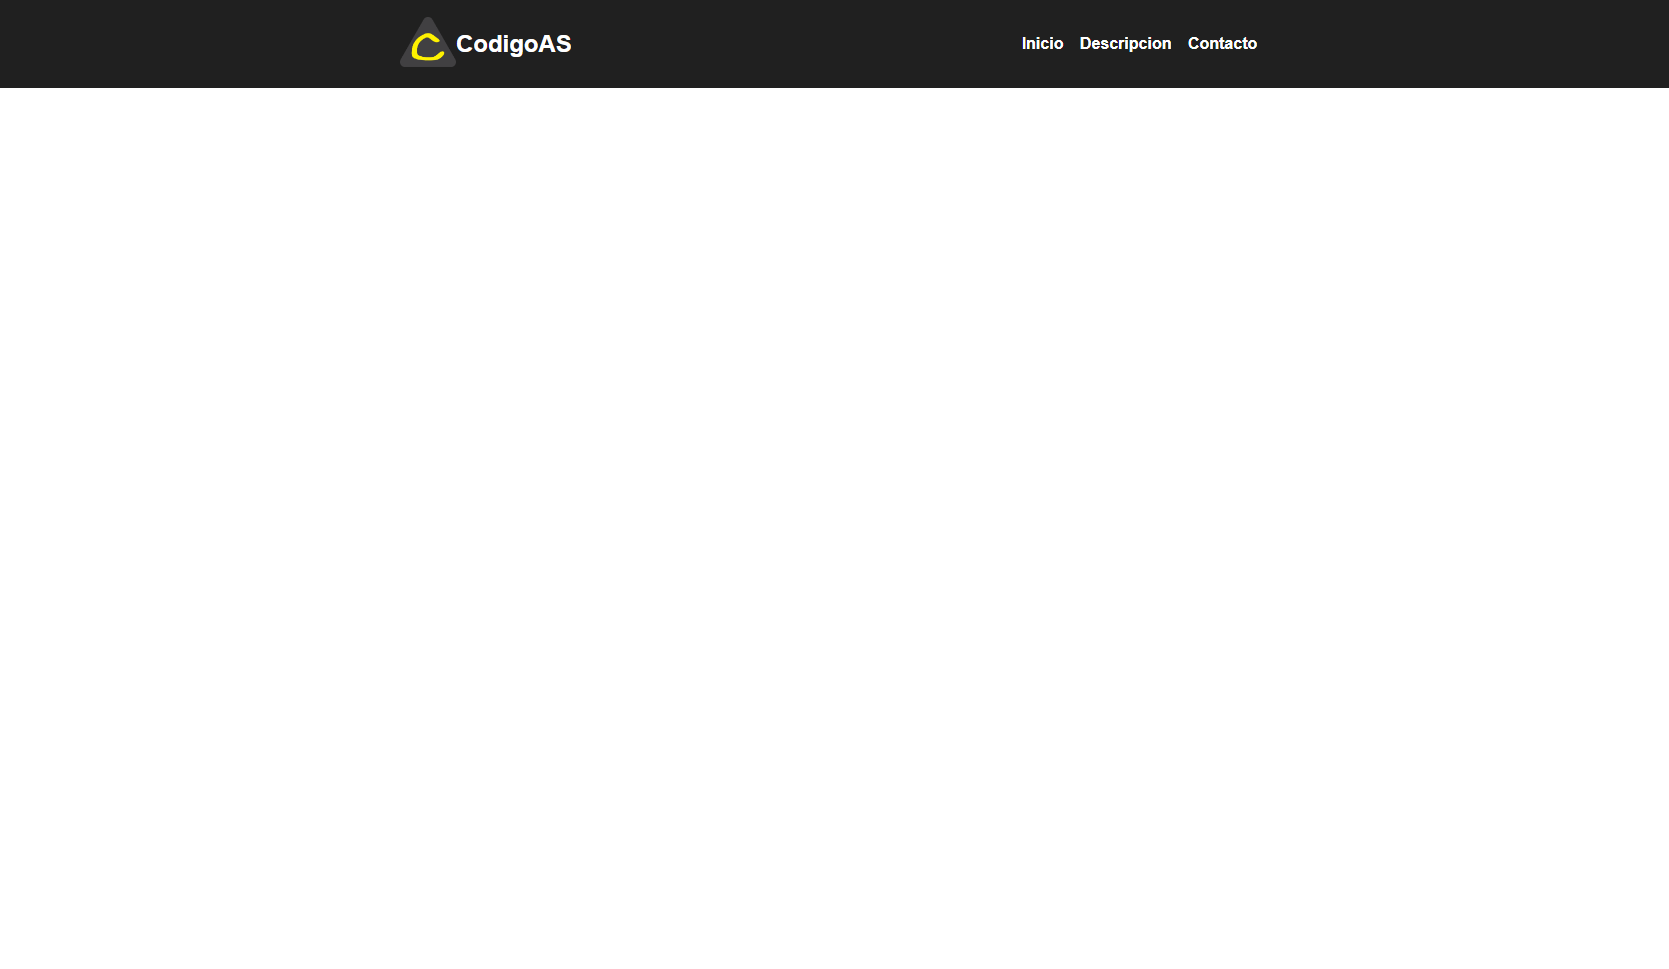
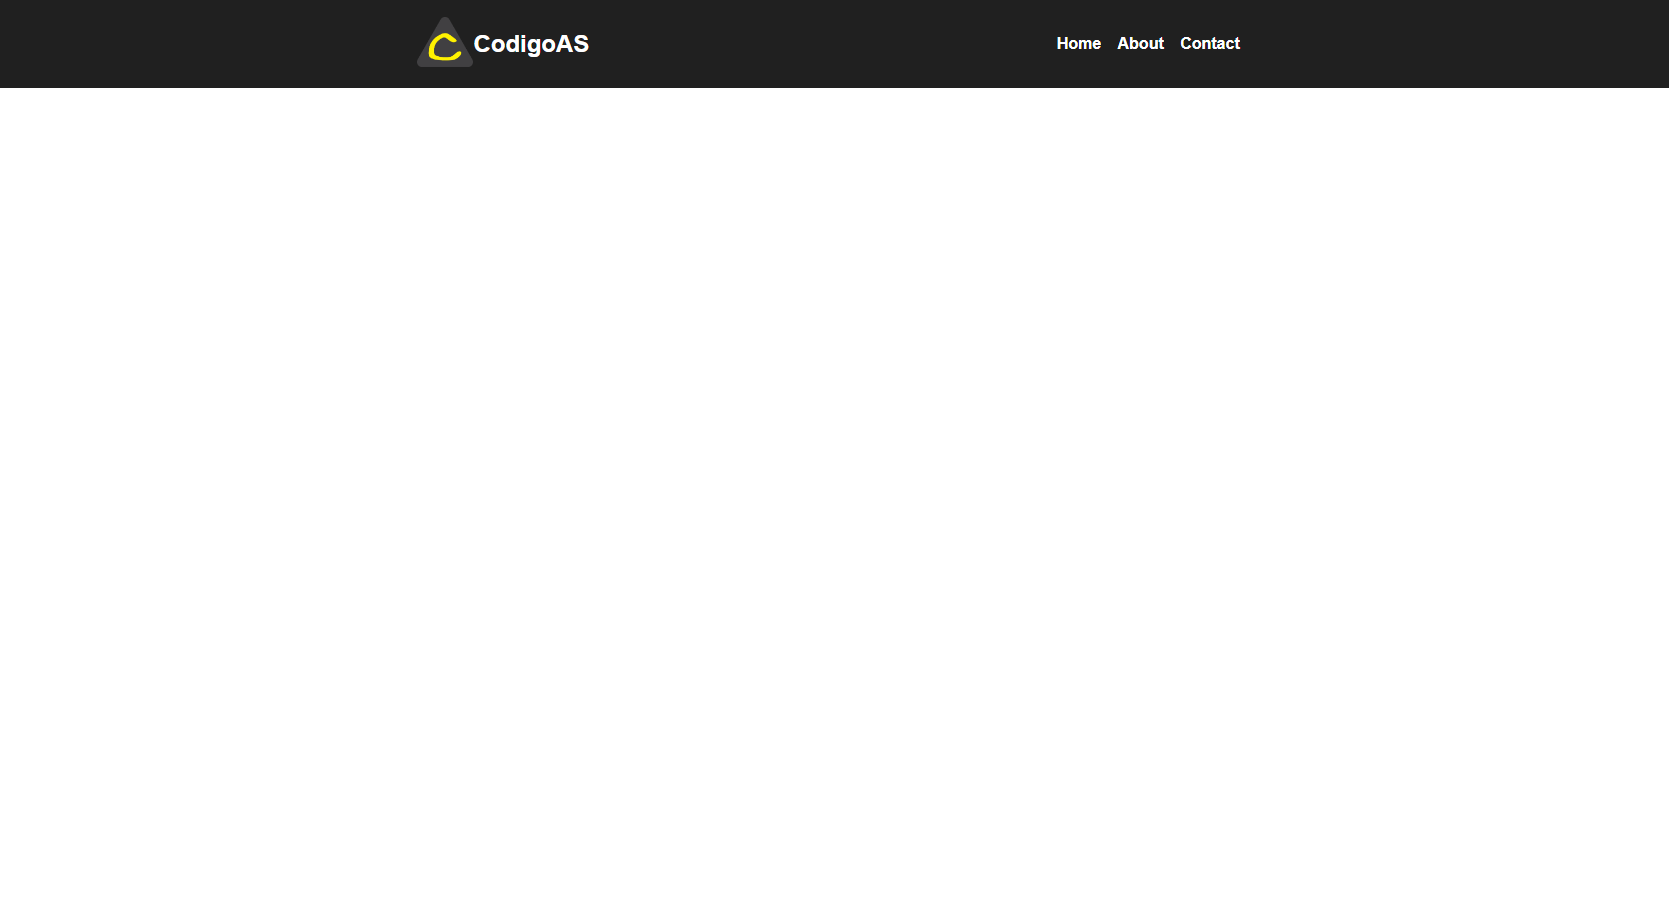
screen english

Changed region(s): [[0.0, 0.0, 1.0, 0.1228], [0.592, 0.0307, 0.7478, 0.0614]]

diff --git a/index.html b/index.html
@@ -5,7 +5,7 @@
     <meta charset="UTF-8">
     <meta http-equiv="X-UA-Compatible" content="IE=edge">
     <meta name="viewport" content="width=device-width, initial-scale=1.0">
-    <title>Menu basico</title>
+    <title>Basic Header</title>
     <link rel="shortcut icon" href="favicon.png" type="image/x-icon">
     <link rel="stylesheet" href="styles.css">
 </head>
@@ -14,12 +14,12 @@
     <header>
         <a class="logo">
             <img src="favicon.png">
-            <h2>CodigoAS</h2>
+            <h2>AaronSalinas</h2>
         </a>
         <nav>
-            <a href="" class="link">Inicio</a>
-            <a href="" class="link">Descripcion</a>
-            <a href="" class="link">Contacto</a>
+            <a href="" class="link">Home</a>
+            <a href="" class="link">About</a>
+            <a href="" class="link">Contact</a>
         </nav>
     </header>
 </body>
